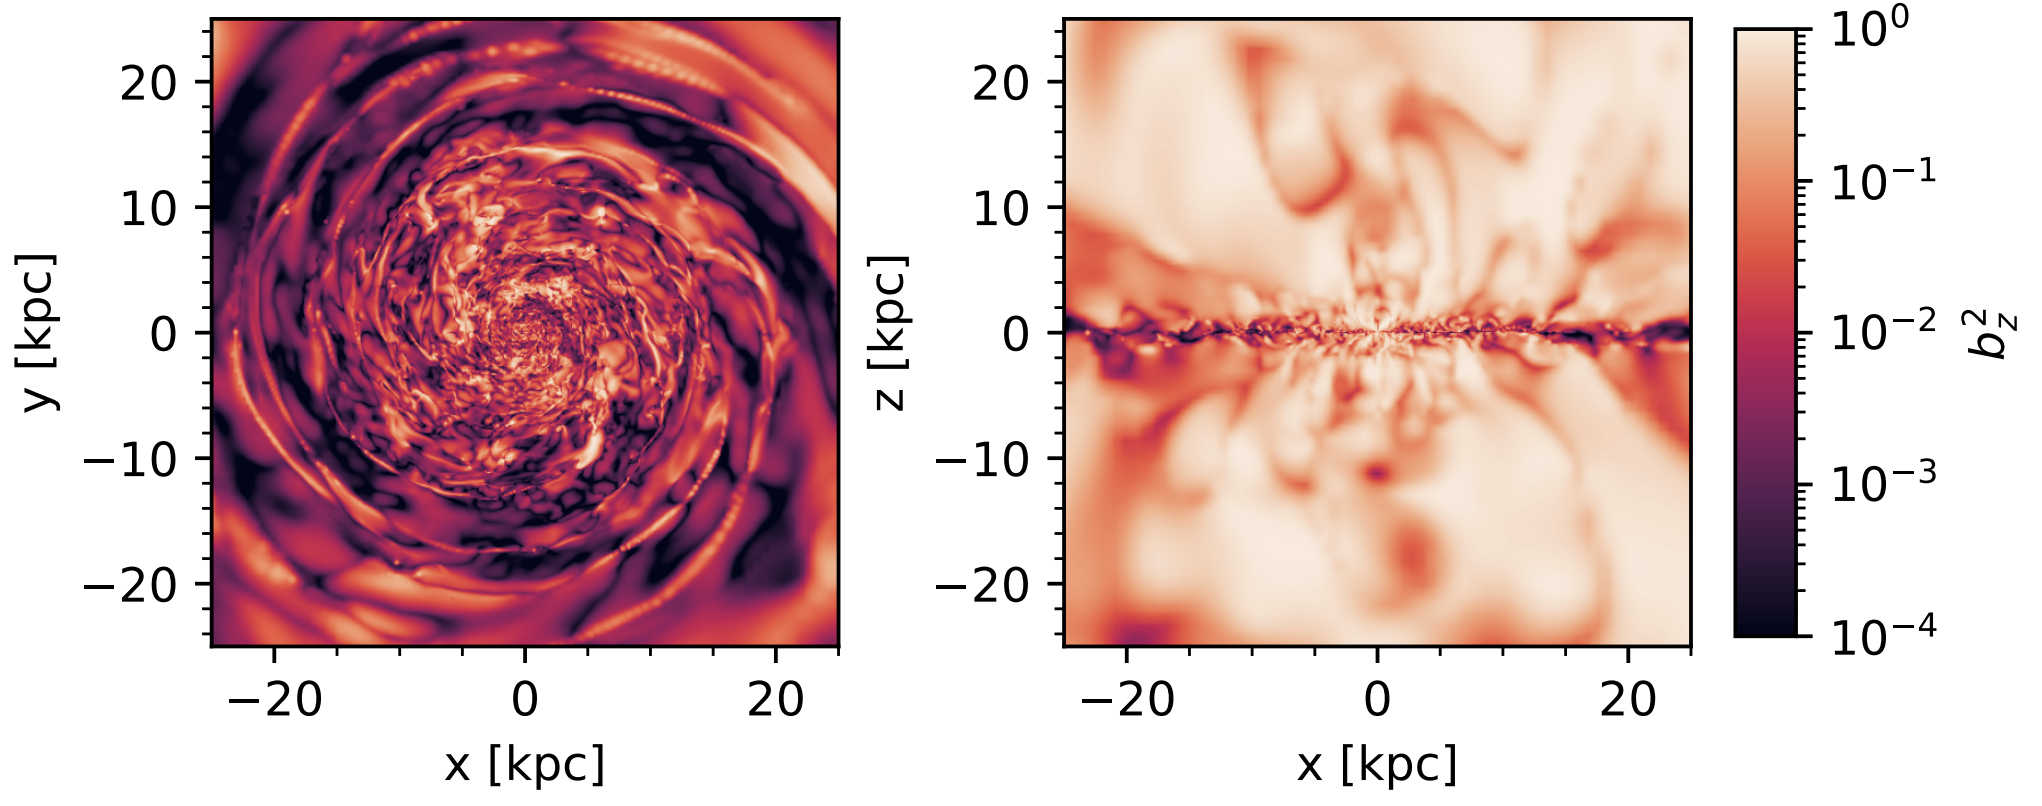
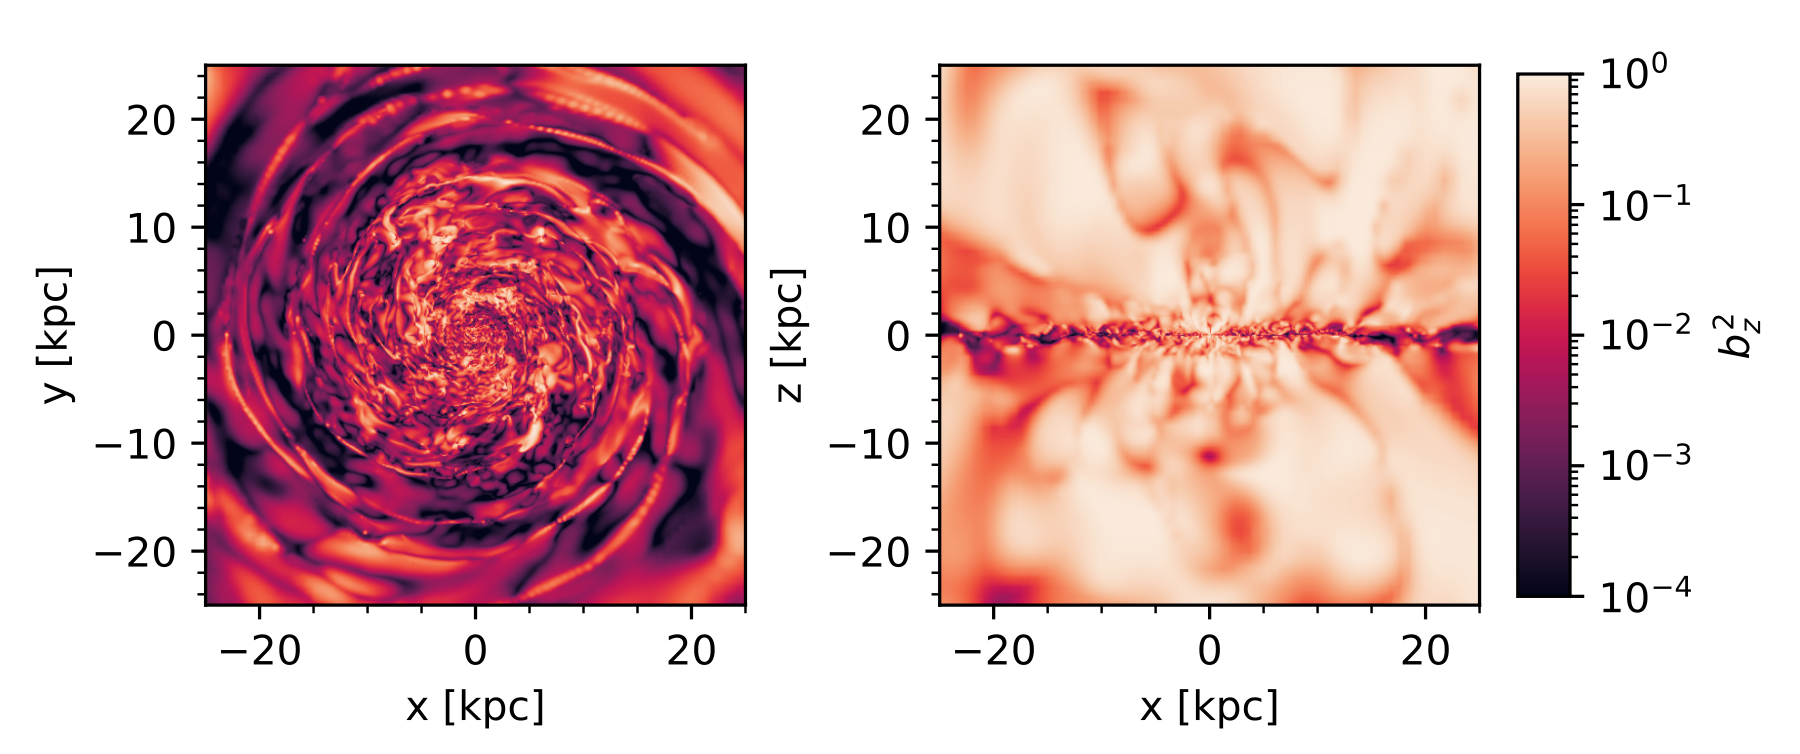
Reorder profile links, update cosmic ray image crop and trim description

diff --git a/research.html b/research.html
@@ -17,11 +17,13 @@
 <main>
   <h1>Research</h1>
   <div class="profile-links">
-    <a href="https://ui.adsabs.harvard.edu/search/filter_database_fq_database=AND&filter_database_fq_database=database%3A%22astronomy%22&fq=%7B!type%3Daqp%20v%3D%24fq_database%7D&fq_database=(database%3A%22astronomy%22)&p_=0&q=-docs(193f797db2bc0ba73dd5c494deb86b3a)%20-docs(f2ef78c8d24fbfee3cdda9d6c31d3da4)%20%20author%3A%22Thiele%2C%20Sarah%22%20collection%3Aastronomy&sort=date%20desc%2C%20bibcode%20desc" target="_blank" rel="noopener">ADS</a>
+    <a href="https://orcid.org/0000-0001-7442-6926" target="_blank" rel="noopener">ORCID</a>
+    <span class="profile-links-sep">—</span>
+    <a href="https://scholar.google.com/citations?user=5zHQ6moAAAAJ&hl=en&oi=ao" target="_blank" rel="noopener">Google Scholar</a>
     <span class="profile-links-sep">—</span>
     <a href="https://arxiv.org/search/advanced?advanced=&terms-0-operator=AND&terms-0-term=Sarah+Thiele&terms-0-field=all&classification-physics=y&classification-physics_archives=astro-ph&classification-include_cross_list=include&date-filter_by=all_dates&date-year=&date-from_date=&date-to_date=&date-date_type=submitted_date&abstracts=show&size=50&order=-submitted_date" target="_blank" rel="noopener">arXiv</a>
     <span class="profile-links-sep">—</span>
-    <a href="https://orcid.org/0000-0001-7442-6926" target="_blank" rel="noopener">ORCID</a>
+    <a href="https://ui.adsabs.harvard.edu/search/filter_database_fq_database=AND&filter_database_fq_database=database%3A%22astronomy%22&fq=%7B!type%3Daqp%20v%3D%24fq_database%7D&fq_database=(database%3A%22astronomy%22)&p_=0&q=-docs(193f797db2bc0ba73dd5c494deb86b3a)%20-docs(f2ef78c8d24fbfee3cdda9d6c31d3da4)%20%20author%3A%22Thiele%2C%20Sarah%22%20collection%3Aastronomy&sort=date%20desc%2C%20bibcode%20desc" target="_blank" rel="noopener">ADS</a>
   </div>
   <!--
   <p style="color: var(--muted); font-family: 'Inter', sans-serif; font-size: 0.9rem;">
@@ -122,10 +124,7 @@
       <figcaption>Orientation of the magnetic field relative to the galactic plane, face-on and edge-on — a key ingredient in how efficiently cosmic rays escape the disc (Thiele &amp; Teyssier, 2025).</figcaption>
     </figure>
     <p>
-      Cosmic rays exert pressure that can reshape gas dynamics across a galaxy, from launching winds to supporting the circumgalactic medium, but most simulations assign them a single constant diffusion coefficient for the entire galaxy despite evidence that it varies by orders of magnitude with the local phase of the interstellar medium. I developed two subgrid models for cosmic ray diffusion: one built from an analytic theory of pitch-angle scattering off MHD turbulence, and one from empirical fits to simulations of self-confined cosmic rays streaming along field lines. I applied both, in post-processing, to a star-forming, magnetized galaxy simulated with the RAMSES code.
-    </p>
-    <p>
-      The resulting diffusion coefficients depend only on the local turbulence, magnetic field strength and orientation, and ionization state of the gas, and range from 10²⁶ to 10³¹ cm² s⁻¹ across the disc and halo, corresponding to midplane cosmic ray energy densities of 1–100 eV cm⁻³. Using these coefficients to model vertical transport out of the disc, I show that the galaxy's gamma-ray luminosity depends primarily on its gas surface density and on how effectively turbulence in the galactic corona confines escaping cosmic rays.
+      Cosmic rays exert pressure that can reshape galactic gas dynamics, but most simulations assign them a single diffusion coefficient for the whole galaxy despite evidence it varies by orders of magnitude with the local interstellar medium. I developed two subgrid models for cosmic ray diffusion — one from analytic pitch-angle scattering theory, one from empirical fits to MHD turbulence simulations — and applied them to a magnetized, star-forming galaxy simulated with RAMSES. The resulting diffusion coefficients depend on the local turbulence, magnetic field orientation, and ionization state of the gas, and I use them to show that the galaxy's gamma-ray luminosity depends primarily on its gas surface density and how well the corona's turbulence confines escaping cosmic rays.
     </p>
     <ul class="paper-list">
       <li><strong><a href="https://doi.org/10.1093/mnras/staf1509" target="_blank" rel="noopener">Comparing subgrid models for cosmic ray diffusion in a magnetized isolated galaxy simulation</a></strong> <span class="cite-meta">— Thiele, S., Teyssier, R. (2025)</span></li>
